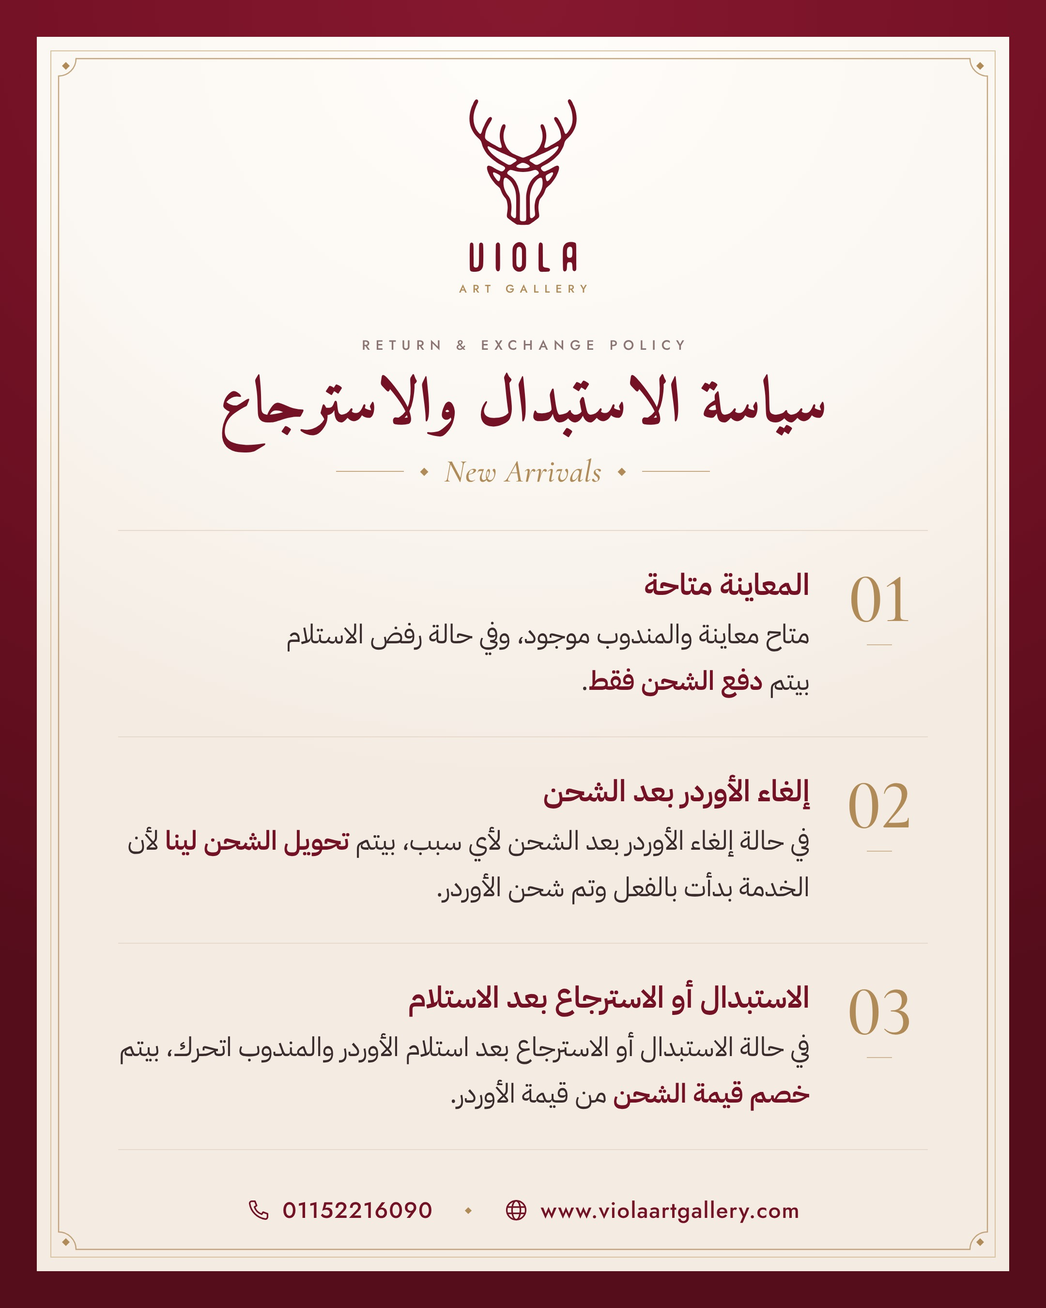
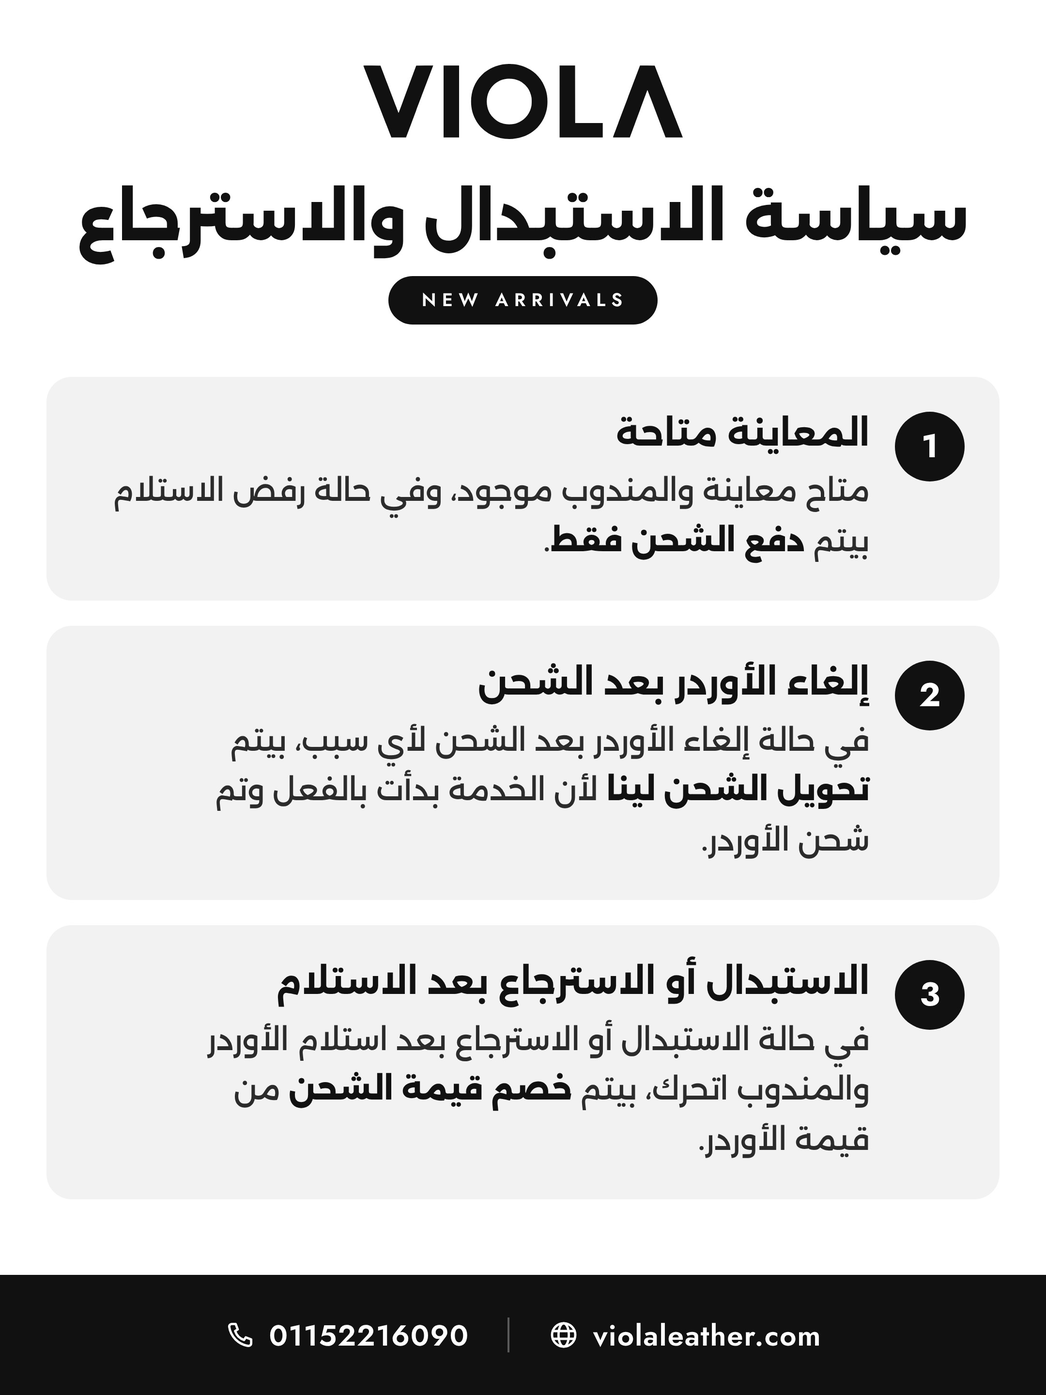
Rework return policy card to Viola monochrome brand
Swap in the VIOLA wordmark (traced to SVG), switch to the black,
white and gray palette, enlarge and embolden all text for WhatsApp
readability, and correct the website to violaleather.com.

Claude-Session: https://claude.ai/code/session_01HaZD6coQsiZN9FtMpUNapE

diff --git a/design/return-policy/return-policy.html b/design/return-policy/return-policy.html
@@ -5,188 +5,145 @@
 <title>Viola Return Policy</title>
 <link rel="preconnect" href="https://fonts.googleapis.com">
 <link rel="preconnect" href="https://fonts.gstatic.com" crossorigin>
-<link href="https://fonts.googleapis.com/css2?family=Amiri:wght@700&family=IBM+Plex+Sans+Arabic:wght@400;500;600&family=Cormorant+Garamond:ital,wght@0,500;0,600;1,500&family=Jost:wght@400;500&display=swap" rel="stylesheet">
+<link href="https://fonts.googleapis.com/css2?family=Alexandria:wght@500;700;800&family=Jost:wght@500;600;700&display=swap" rel="stylesheet">
 <style>
   :root {
-    --wine: #741125;
-    --wine-deep: #560d1b;
-    --paper: #fbf7f2;
-    --paper-2: #f4ece3;
-    --gold: #b08a57;
-    --gold-soft: #d8c2a0;
-    --ink: #3a2b2d;
-    --muted: #8b7471;
-    --line: #e7dacd;
+    --black: #111111;
+    --ink: #2b2b2b;
+    --gray-1: #f2f2f2;
+    --gray-2: #e2e2e2;
+    --gray-3: #cfcfcf;
+    --gray-4: #8a8a8a;
+    --white: #ffffff;
   }
   * { box-sizing: border-box; margin: 0; padding: 0; }
-  html, body { width: 1080px; height: 1350px; }
+  html, body { width: 1080px; height: 1440px; }
   body {
-    background: var(--wine);
-    font-family: "IBM Plex Sans Arabic", sans-serif;
+    background: var(--white);
+    font-family: "Alexandria", sans-serif;
     color: var(--ink);
     -webkit-font-smoothing: antialiased;
   }
   .poster {
-    position: relative;
-    width: 1080px; height: 1350px;
-    padding: 38px;
-    background:
-      radial-gradient(120% 80% at 50% 0%, #86182e 0%, var(--wine) 45%, var(--wine-deep) 100%);
-  }
-  .card {
-    position: relative;
-    height: 100%;
-    background:
-      radial-gradient(90% 60% at 50% 0%, #fffdfa 0%, var(--paper) 55%, var(--paper-2) 100%);
-    padding: 64px 84px 0;
+    width: 1080px; height: 1440px;
     display: flex; flex-direction: column; align-items: center;
-  }
-  /* gold frame with concave corners */
-  .frame { position: absolute; inset: 0; width: 100%; height: 100%; pointer-events: none; }
-
-  /* ---------- brand lockup ---------- */
-  .brand { display: flex; flex-direction: column; align-items: center; }
-  .brand .deer { width: 112px; height: auto; display: block; }
-  .brand .viola { width: 112px; height: auto; display: block; margin-top: 16px; }
-  .brand .ag {
-    direction: ltr;
-    font-family: "Jost", sans-serif; font-weight: 500;
-    font-size: 11.5px; letter-spacing: .52em; margin-right: -.52em;
-    color: var(--gold); margin-top: 9px;
+    background: var(--white);
   }
 
-  /* ---------- headline ---------- */
-  .kicker {
-    direction: ltr;
-    margin-top: 40px;
-    font-family: "Jost", sans-serif; font-weight: 500;
-    font-size: 14px; letter-spacing: .42em; margin-right: -.42em;
-    color: var(--muted);
-  }
+  /* ---------- header ---------- */
+  .logo { width: 330px; height: auto; display: block; margin-top: 66px; }
   h1 {
-    margin-top: 6px;
-    font-family: "Amiri", serif; font-weight: 700;
-    font-size: 66px; line-height: 1.45;
-    color: var(--wine);
+    margin-top: 40px;
+    font-weight: 800; font-size: 64px; line-height: 1.3;
+    color: var(--black);
     text-align: center;
   }
   .tag {
-    display: flex; align-items: center; gap: 18px;
-    direction: ltr; margin-top: 2px;
-  }
-  .tag .rule { width: 70px; height: 1px; background: var(--gold); opacity: .7; }
-  .tag .dia { width: 6px; height: 6px; background: var(--gold); transform: rotate(45deg); }
-  .tag em {
-    font-family: "Cormorant Garamond", serif; font-style: italic; font-weight: 500;
-    font-size: 33px; color: var(--gold); letter-spacing: .01em;
-    line-height: 1;
+    margin-top: 18px;
+    direction: ltr;
+    display: inline-flex; align-items: center;
+    height: 50px; padding: 0 30px 0 34px;
+    border-radius: 999px;
+    background: var(--black); color: var(--white);
+    font-family: "Jost", sans-serif; font-weight: 600;
+    font-size: 19px; letter-spacing: .32em;
   }
 
   /* ---------- policy items ---------- */
   .items {
     list-style: none;
     width: 100%;
-    margin-top: 44px;
-    border-top: 1px solid var(--line);
+    padding: 0 48px;
+    margin-top: 54px;
+    display: flex; flex-direction: column; gap: 26px;
   }
   .items li {
     display: grid;
-    grid-template-columns: 92px 1fr;
-    align-items: start;
+    grid-template-columns: 72px 1fr;
     column-gap: 26px;
-    padding: 34px 4px 34px 0;
-    border-bottom: 1px solid var(--line);
+    align-items: start;
+    background: var(--gray-1);
+    border-radius: 26px;
+    padding: 34px 36px 36px 34px;
   }
   .num {
-    direction: ltr;
-    font-family: "Cormorant Garamond", serif; font-weight: 500;
-    font-size: 72px; line-height: .9;
-    font-variant-numeric: lining-nums;
-    color: var(--gold);
-    text-align: center;
-    padding-top: 4px;
-    position: relative;
-  }
-  .num::after {
-    content: ""; display: block; width: 26px; height: 1px;
-    background: var(--gold); opacity: .55; margin: 14px auto 0;
+    width: 72px; height: 72px; border-radius: 50%;
+    background: var(--black); color: var(--white);
+    display: grid; place-items: center;
+    font-family: "Jost", sans-serif; font-weight: 700; font-size: 34px;
+    line-height: 1;
+    margin-top: 2px;
   }
   .items h2 {
-    font-weight: 600; font-size: 31px; line-height: 1.4;
-    color: var(--wine);
+    font-weight: 700; font-size: 36px; line-height: 1.35;
+    color: var(--black);
   }
   .items p {
-    margin-top: 6px;
-    font-weight: 400; font-size: 27.5px; line-height: 1.72;
+    margin-top: 10px;
+    font-weight: 500; font-size: 31px; line-height: 1.66;
     color: var(--ink);
     text-wrap: pretty;
   }
-  .items p b { font-weight: 600; color: var(--wine); white-space: nowrap; }
+  .items p b {
+    font-weight: 800; color: var(--black);
+    white-space: nowrap;
+  }
 
   /* ---------- footer ---------- */
   .foot {
     margin-top: auto;
-    width: calc(100% + 168px);
-    padding: 30px 0 46px;
-    display: flex; justify-content: center; align-items: center; gap: 34px;
+    width: 100%;
+    height: 124px;
+    background: var(--black); color: var(--white);
+    display: flex; justify-content: center; align-items: center; gap: 40px;
     direction: ltr;
-    color: var(--wine);
-    font-family: "Jost", sans-serif; font-weight: 500; font-size: 23px; letter-spacing: .04em;
+    font-family: "Jost", sans-serif; font-weight: 600; font-size: 30px; letter-spacing: .03em;
   }
-  .foot .it { display: flex; align-items: center; gap: 12px; }
-  .foot svg { width: 26px; height: 26px; display: block; }
-  .foot .sep { width: 5px; height: 5px; background: var(--gold); transform: rotate(45deg); }
+  .foot .it { display: flex; align-items: center; gap: 14px; }
+  .foot svg { width: 32px; height: 32px; display: block; }
+  .foot .sep { width: 2px; height: 36px; background: #5a5a5a; }
 </style>
 </head>
 <body>
 <div class="poster">
-  <div class="card">
-    <svg class="frame" viewBox="0 0 1004 1274" aria-hidden="true"><rect x="14.5" y="14.5" width="975" height="1245" fill="none" stroke="#d8c2a0" stroke-width="1"/><path d="M40.5 22.5H963.5A18 18 0 0 0 981.5 40.5V1233.5A18 18 0 0 0 963.5 1251.5H40.5A18 18 0 0 0 22.5 1233.5V40.5A18 18 0 0 0 40.5 22.5Z" fill="none" stroke="#b08a57" stroke-opacity=".75" stroke-width="1.2"/><g fill="#b08a57"><path d="M30 26L34 30L30 34L26 30Z"/><path d="M974 26L978 30L974 34L970 30Z"/><path d="M30 1240L34 1244L30 1248L26 1244Z"/><path d="M974 1240L978 1244L974 1248L970 1244Z"/></g></svg>
+  <svg class="logo" viewBox="0 0 2000 470" aria-label="VIOLA"><path fill="#111111" fill-rule="evenodd" d="M 896 1.0 C 837.4 4.7,781.1 29.7,741.5 69.5 C 698.1 113.0,675 170.6,675 235 C 675 281.3,686.2 321.8,709.7 360.4 C 765.7 452.3,887.4 493.0,996.8 456.4 C 1055.9 436.7,1102.0 396.6,1129.0 341.5 C 1145.6 307.6,1153.2 274.2,1153.1 235 C 1153.1 207.0,1149.5 183.3,1141.5 159.3 C 1121.0 97.7,1081.0 51.8,1024.5 24.9 C 994.3 10.5,965.6 3.2,931.1 1.0 C 914.2 -0.0,913.2 -0.0,896 1.0 M 1 10.8 C 1 11.6,12.0 40.0,29.4 84.5 C 31.8 90.5,35.3 99.5,37.3 104.5 C 39.2 109.4,42.8 118.6,45.3 125 C 47.7 131.3,55.5 151.1,62.5 169 C 69.4 186.8,77.2 206.6,79.6 213 C 82.1 219.3,85.7 228.5,87.6 233.5 C 89.6 238.4,103.2 273.3,118.0 311 C 132.7 348.6,146.4 383.7,148.5 389 C 154.0 403.3,164.4 429.7,170.6 445.7 L 176.2 460.0 222.2 459.7 L 268.2 459.5 273.2 446.5 C 275.9 439.3,301.7 371.1,330.4 295 C 379.8 164.2,436.0 15.6,437.5 11.7 L 438.2 9.9 384.9 10.2 L 331.7 10.5 319.8 42.5 C 313.3 60.1,303.2 87.1,297.5 102.5 C 284.0 138.9,268.4 180.8,246.0 241.5 C 236.0 268.4,226.4 294.2,224.7 298.8 C 222.6 304.6,221.4 306.7,220.8 305.7 C 220.4 304.8,213.4 286.9,205.4 265.8 C 190.7 227.3,176.7 190.6,149.4 119 C 141.3 97.8,128.7 64.7,121.4 45.5 L 108.1 10.5 54.5 10.2 C 23.3 10.0,1 10.3,1 10.8 M 503 235 L 503 460 551.5 460 L 600 460 600 235 L 600 10 551.5 10 L 503 10 503 235 M 1229 235 L 1229 460 1364 460 L 1499 460 1499 415.0 L 1499 370.0 1412.7 369.7 L 1326.5 369.5 1326.2 189.7 L 1325.9 10 1277.4 10 L 1229 10 1229 235 M 1722.7 35.2 C 1717.4 49.1,1687.0 129.5,1655.1 214 C 1623.3 298.4,1589.5 387.8,1580.1 412.7 C 1570.6 437.5,1563 458.3,1563 458.9 C 1563 459.6,1580.1 460,1615.9 460 L 1668.8 460 1669.5 457.7 C 1669.9 456.5,1676.0 439.7,1683.2 420.5 C 1695.0 388.6,1701.8 370.2,1732 289 C 1748.4 244.7,1777.6 165.5,1778.2 164 C 1778.8 162.0,1779.0 162.5,1797.6 211.3 C 1813.4 252.8,1831.4 300.1,1858.4 371 C 1866.5 392.1,1877.4 420.8,1882.7 434.7 L 1892.3 460 1946.1 460 L 1999.9 460 1997.5 453.7 C 1994.6 446.2,1990.0 434.5,1973.9 393.5 C 1967.3 376.4,1957.9 352.6,1953.2 340.5 C 1948.5 328.4,1942.4 312.8,1939.7 306 C 1937.0 299.1,1932.6 287.8,1929.9 281 C 1927.3 274.1,1919.6 254.5,1912.9 237.5 C 1902.0 209.5,1892.6 185.5,1879.0 150.5 C 1872.4 133.6,1854.5 87.8,1838.1 46 L 1824.2 10.5 1778.2 10.2 L 1732.2 9.9 1722.7 35.2 M 897.0 93.2 C 850.4 98.3,809.5 127.1,788.0 169.8 C 768.3 209.0,768.5 261.6,788.5 301.3 C 795.5 315.1,802.4 324.4,814.9 337.0 C 842.5 364.7,874.8 378.0,914.3 377.9 C 938.5 377.9,957.6 373.7,977.5 364.0 C 1016.5 344.9,1044.5 307.6,1052.6 264 C 1054.8 252.0,1055.1 220.1,1053.1 209 C 1049.2 186.7,1039.6 164.0,1027.5 147.9 C 1014.7 130.9,994.4 114.0,976.5 105.5 C 953.2 94.5,924.9 90.1,897.0 93.2"/></svg>
 
-    <div class="brand">
-      <svg class="deer" viewBox="145 115 1285 1500" aria-label="Viola"><path fill="#741125" fill-rule="evenodd" d="M 229.5 123.8 C 220.0 128.1,207.2 147.9,195.7 176 C 193.7 180.6,189.9 189.0,187.1 194.5 C 176.9 215.0,166.8 247.1,160.1 280.5 C 136.7 397.5,171.3 502.1,260.2 582.7 C 285.9 606.0,293.9 619.9,301.9 654.5 C 306.9 676.1,327.0 718.1,343.4 741.5 C 345.7 744.8,350.5 751.7,354.0 756.9 C 366.9 776.0,414.4 822.4,439.3 840.1 C 444.9 844.1,455.6 852.0,463.2 857.7 C 487.5 875.9,505.2 886.5,548.5 908.8 C 578.5 924.3,583.0 935.7,566.6 954.9 C 551.9 972.2,539.0 977.3,523.9 972.1 C 505.8 965.8,470.4 948.8,449.8 936.4 C 397.7 905.2,377.8 899.9,365.7 913.9 C 355.3 926.1,361.9 961.9,382.5 1005.2 C 387.7 1016.1,392 1025.2,392 1025.5 C 392 1029.4,419.6 1073.1,430.8 1086.9 C 435.0 1092.0,441.2 1099.7,444.5 1103.9 C 456.8 1119.8,474.3 1137.0,499.6 1158.5 C 514.0 1170.6,518.2 1177.6,527.6 1205.3 C 537.3 1233.9,554.5 1263.6,575 1287.2 C 589.6 1304.1,594.6 1315.6,599.9 1344.9 C 608.0 1389.6,608.0 1412.2,599.9 1464 C 592.1 1514.0,594.4 1520.2,629.7 1544.2 C 634.7 1547.6,642.7 1553.5,647.3 1557.2 C 651.9 1560.9,662.6 1568.8,671.1 1574.8 C 679.5 1580.7,690.1 1588.2,694.5 1591.4 C 716.4 1607.3,720.8 1608.0,788 1608.0 C 855.1 1608.0,859.5 1607.3,881.5 1591.4 C 885.9 1588.2,896.4 1580.7,904.8 1574.8 C 913.3 1568.8,924.0 1560.9,928.6 1557.2 C 933.2 1553.5,941.2 1547.6,946.2 1544.2 C 981.5 1520.2,983.8 1514.0,976.0 1464 C 967.9 1412.2,967.9 1389.6,976.0 1344.9 C 981.3 1315.6,986.3 1304.1,1001 1287.2 C 1021.4 1263.6,1038.6 1233.9,1048.3 1205.3 C 1057.7 1177.6,1061.9 1170.6,1076.3 1158.5 C 1101.6 1137.0,1119.1 1119.8,1131.5 1103.9 C 1134.8 1099.7,1140.9 1092.0,1145.1 1086.9 C 1156.3 1073.1,1184 1029.4,1184 1025.5 C 1184 1025.2,1188.2 1016.1,1193.4 1005.2 C 1214.0 961.9,1220.6 926.1,1210.2 913.9 C 1198.1 899.9,1178.2 905.2,1126.1 936.4 C 1105.5 948.8,1070.1 965.8,1052.0 972.1 C 1036.9 977.3,1024.1 972.2,1009.3 954.9 C 992.9 935.7,997.4 924.3,1027.4 908.8 C 1070.7 886.5,1088.4 875.9,1112.7 857.7 C 1120.3 852.0,1131.0 844.1,1136.6 840.1 C 1161.5 822.4,1209.0 776.0,1221.9 756.9 C 1225.4 751.7,1230.2 744.8,1232.5 741.5 C 1248.9 718.1,1269.0 676.1,1274.0 654.5 C 1282.0 619.9,1290.0 606.0,1315.7 582.7 C 1404.6 502.1,1439.2 397.5,1415.8 280.5 C 1409.1 247.1,1399.0 215.0,1388.8 194.5 C 1386.0 189.0,1382.2 180.6,1380.2 176 C 1360.8 128.8,1341.8 111.6,1325.6 126.8 C 1315.3 136.3,1316.5 147.2,1331.1 176.3 C 1356.7 227.5,1368.1 265.3,1372.9 315.5 C 1380.0 389.5,1366.6 443.0,1327.1 498.6 C 1296.0 542.3,1287.0 541.4,1272.4 492.9 C 1266.0 471.6,1261.9 460.8,1255.4 447.9 C 1252.8 442.7,1248.5 433.3,1245.7 427 C 1232.8 396.6,1207.6 353.9,1195.5 341.5 C 1182.0 327.8,1170.2 326.0,1161.1 336.4 C 1152.4 346.3,1154.3 355.4,1170.6 382.6 C 1218.8 463.2,1228.5 486.5,1236.4 541.1 C 1242.3 581.9,1237.0 593.4,1202.1 615.9 C 1167.4 638.4,1155.4 645.8,1144 651.9 C 1137.1 655.6,1120.2 664.9,1106.5 672.5 C 1067.9 693.8,1064.1 695.5,1054.8 695.5 C 1037.7 695.5,1036.5 688.8,1047.5 651.9 C 1068.1 582.3,1069.1 533.9,1051.3 472 C 1038.3 426.7,1024.2 409.8,1006.4 417.8 C 992.5 424.2,991.7 440.5,1004.0 472 C 1022.7 519.8,1024.5 581.8,1008.5 627.6 C 993.2 671.5,982.7 692.0,964.0 714.5 C 935.2 748.9,914.4 763.8,872.5 780.0 C 866.4 782.3,847.8 790.1,831.0 797.2 C 786.2 816.3,789.7 816.3,744.9 797.2 C 728.1 790.1,709.5 782.3,703.5 780.0 C 661.5 763.8,640.7 748.9,611.9 714.5 C 593.2 692.0,582.7 671.5,567.4 627.6 C 551.4 581.8,553.2 519.8,571.9 472 C 584.2 440.5,583.4 424.2,569.5 417.8 C 551.7 409.8,537.6 426.7,524.6 472 C 506.8 533.9,507.8 582.3,528.4 651.9 C 539.4 688.8,538.2 695.5,521.1 695.5 C 511.8 695.5,508.0 693.8,469.5 672.5 C 455.7 664.9,438.8 655.6,432 651.9 C 420.5 645.8,408.5 638.4,373.8 615.9 C 338.9 593.4,333.6 581.9,339.5 541.1 C 347.4 486.5,357.1 463.2,405.3 382.6 C 421.6 355.4,423.5 346.3,414.8 336.4 C 405.7 326.0,393.9 327.8,380.5 341.5 C 368.3 353.9,343.1 396.6,330.2 427 C 327.4 433.3,323.1 442.7,320.5 447.9 C 314.0 460.8,309.9 471.6,303.5 492.9 C 291.1 534.0,283.1 539.3,264.2 518.5 C 187.4 434.4,180.1 305.4,244.8 176.3 C 254.3 157.3,257.0 149.9,256.9 142.7 C 256.9 127.2,243.0 117.7,229.5 123.8 M 370.7 678.9 C 357.3 689.5,392.0 742.1,439 782.4 C 483.0 820.2,516.4 842.4,590.4 883.2 C 623.6 901.5,633.9 901.1,665.5 880.2 C 672.1 875.9,682.9 869.1,689.5 865.2 C 704.3 856.5,706.5 854.7,709.0 849.9 C 715.4 837.4,708.1 829.5,679.5 817.9 C 672.3 815.0,663.8 811.3,660.5 809.7 C 657.2 808.0,649.1 804.5,642.5 801.9 C 635.9 799.3,621.7 793.0,611.0 787.9 C 600.3 782.9,578.9 773.4,563.5 766.7 C 528.6 751.8,498.1 737.3,473.5 724.1 C 463.0 718.5,444.8 709.1,433 703.3 C 421.1 697.4,406.3 689.8,400.0 686.2 C 382.8 676.5,376.0 674.8,370.7 678.9 M 1190.9 678.4 C 1189.0 679.1,1182.2 682.6,1175.9 686.2 C 1169.6 689.8,1154.8 697.4,1143 703.3 C 1131.1 709.1,1112.9 718.5,1102.5 724.1 C 1077.8 737.3,1047.3 751.8,1012.4 766.7 C 997.0 773.4,975.6 782.9,964.9 787.9 C 954.2 793.0,940.1 799.3,933.5 801.9 C 926.9 804.5,918.8 808.0,915.5 809.7 C 912.2 811.3,903.6 815.0,896.5 817.9 C 867.8 829.5,860.5 837.4,866.9 849.9 C 869.4 854.7,871.6 856.5,886.5 865.2 C 893.1 869.1,903.9 875.9,910.5 880.2 C 942.0 901.1,952.3 901.5,985.5 883.2 C 1059.5 842.4,1092.9 820.2,1137 782.4 C 1176.9 748.1,1211.6 700.2,1208.3 683.9 C 1207.0 677.6,1199.4 675.3,1190.9 678.4 M 773.2 874.4 C 758.1 878.7,728.5 894.4,717 904.3 C 700.1 918.8,709.4 928.6,746 935.1 C 751.2 936.1,763.6 936.5,788 936.5 C 812.3 936.5,824.7 936.1,830 935.1 C 879.9 926.2,879.5 911.5,828.6 885.5 C 805.1 873.5,788.4 870.2,773.2 874.4 M 631.6 958.4 C 622.2 962.0,606.1 976.1,602.8 983.7 C 596.5 997.9,600.8 1004.5,628.5 1023.0 C 651.1 1038.1,667.9 1052.9,680.3 1068.6 C 684.8 1074.4,690.8 1082.1,693.7 1085.7 C 699.4 1092.9,717.7 1128.3,724.2 1144.7 C 731.2 1162.1,741.5 1202.4,747.4 1235.1 C 751.7 1258.8,752.0 1274.0,750.6 1435.5 C 749.6 1553.1,749.4 1551.3,759.0 1559.3 C 767.9 1566.8,808.0 1566.8,816.9 1559.3 C 826.5 1551.3,826.3 1553.1,825.3 1435.5 C 823.9 1274.0,824.2 1258.8,828.5 1235.1 C 834.4 1202.4,844.7 1162.1,851.7 1144.7 C 858.2 1128.3,876.5 1092.9,882.2 1085.7 C 885.1 1082.1,891.1 1074.4,895.6 1068.6 C 908.0 1052.9,924.8 1038.1,947.4 1023.0 C 971.7 1006.7,975.1 1003.0,975.1 992.7 C 975.0 983.4,968.6 974.5,954.5 964.5 C 941.2 955.0,930.8 954.5,905.5 962.4 C 826.6 986.8,749.1 986.8,670.5 962.4 C 653.2 957.0,639.0 955.6,631.6 958.4 M 437 986.2 C 423.9 992.8,436.5 1023.2,469.7 1065.2 C 496.9 1099.6,507.8 1099.0,516.1 1062.5 C 523.7 1029.2,520.2 1021.4,491.7 1007.1 C 483.9 1003.2,472.7 997.5,467 994.4 C 451.1 986.1,442.1 983.6,437 986.2 M 1125.5 986.9 C 1122.2 988.0,1114.7 991.4,1109 994.4 C 1103.2 997.5,1092.1 1003.2,1084.2 1007.1 C 1055.7 1021.4,1052.2 1029.2,1059.8 1062.5 C 1066.3 1090.7,1074.2 1096.3,1090.1 1083.8 C 1100.4 1075.7,1129.2 1034.8,1139.6 1013.6 C 1149.9 992.4,1143.8 980.9,1125.5 986.9 M 571.3 1050.9 C 563.4 1055.7,560.0 1064.3,557.4 1085.5 C 550.0 1146.5,569.7 1210.7,611.8 1262.9 C 625.8 1280.4,638.7 1306.3,642.4 1324.7 C 652.7 1375.7,653.6 1397.1,647.7 1450.5 C 643.3 1490.4,644.4 1497.5,656.4 1508.7 C 680.1 1530.9,693.8 1534.5,701.6 1520.5 C 705.2 1514.0,705.8 1507.0,706.1 1466.5 C 706.2 1445.0,706.7 1395.9,707.2 1357.4 C 708.9 1232.3,701.2 1190.9,664.0 1126 C 651.3 1103.7,646.7 1097.7,630.7 1081.8 C 602.6 1053.9,583.1 1043.7,571.3 1050.9 M 981.4 1053.3 C 930.5 1078.2,884.1 1158.1,872.0 1242 C 868.1 1268.7,867.7 1283.2,868.7 1357.4 C 869.2 1395.9,869.7 1445.0,869.8 1466.5 C 870.1 1507.0,870.7 1514.0,874.3 1520.5 C 882.1 1534.5,895.8 1530.9,919.5 1508.7 C 931.5 1497.5,932.6 1490.4,928.2 1450.5 C 922.3 1397.1,923.2 1375.7,933.5 1324.7 C 937.2 1306.3,950.1 1280.4,964.1 1262.9 C 1006.2 1210.7,1025.9 1146.5,1018.5 1085.5 C 1014.3 1050.8,1004.3 1042.1,981.4 1053.3"/></svg>
-      <svg class="viola" viewBox="1400 1165 945 275" aria-hidden="true"><path fill="#741125" fill-rule="evenodd" d="M 2274.5 1172.6 C 2244.3 1176.7,2223.6 1199.8,2220.9 1232.8 C 2218.3 1263.3,2220.2 1412.0,2223.3 1418.3 C 2229.1 1430.1,2239.1 1431.1,2248.4 1420.9 C 2253.6 1415.1,2254.9 1409.2,2255.5 1388.5 C 2256.5 1353.3,2259.5 1347.9,2278.1 1348.0 C 2297.9 1348.0,2301.5 1353.6,2303.1 1386 C 2303.6 1397.2,2304.3 1408.3,2304.6 1410.6 C 2306.1 1423.5,2321.0 1430.4,2329.9 1422.4 C 2336.8 1416.1,2337.5 1412.5,2337.2 1383 C 2337.0 1368.9,2336.8 1320.3,2336.7 1275 C 2336.4 1181.8,2336.8 1185.0,2326.6 1178.1 C 2318.6 1172.5,2294.3 1170.0,2274.5 1172.6 M 1825.8 1175.3 C 1800.8 1184.1,1785.1 1204.1,1782.0 1230.7 C 1780.2 1246.2,1781.3 1376.2,1783.3 1383.2 C 1801.9 1449.0,1886.5 1444.2,1898.2 1376.7 C 1900.0 1366.5,1900.0 1239.5,1898.2 1229.4 C 1891.5 1190.5,1856.6 1164.5,1825.8 1175.3 M 2020.0 1177.2 C 2008.1 1183.3,2007.9 1185.4,2008.1 1317.4 C 2008.2 1416.2,2007.9 1411.1,2015.0 1421.8 C 2022.0 1432.2,2021.7 1432.2,2059.6 1431.1 C 2098.5 1429.9,2103.9 1428.4,2107.1 1417.9 C 2111.1 1404.6,2100.1 1397.0,2074.2 1395.0 C 2059.6 1393.9,2055.2 1392.4,2050.6 1386.9 C 2045.7 1381.1,2045.7 1381.1,2045.4 1285 C 2045.1 1184.9,2045.3 1189.1,2038.7 1182.1 C 2032.3 1175.5,2026.4 1173.9,2020.0 1177.2 M 1421.7 1176.9 C 1416.8 1178.4,1413.3 1181.8,1410.8 1187.2 C 1407.1 1195.4,1407.1 1407.4,1410.8 1415.6 C 1416.0 1427.2,1421.7 1429.4,1449 1430.4 C 1491.8 1431.9,1514.2 1417.9,1523.6 1383.4 C 1528.2 1366.4,1528.2 1197.1,1523.5 1188 C 1515.0 1171.3,1496.6 1172.5,1490.8 1190.1 C 1490.0 1192.5,1489.5 1217.8,1489.3 1276.7 C 1489.0 1369.7,1488.8 1372.8,1482.6 1383.1 C 1474.3 1397.0,1449.9 1397.9,1443.9 1384.5 C 1442.1 1380.7,1442.0 1376.3,1441.9 1303 C 1441.8 1206.6,1441.3 1191.0,1437.9 1185.0 C 1433.9 1177.9,1428.0 1174.9,1421.7 1176.9 M 1648.2 1177.6 C 1643.5 1179.9,1637.2 1187.2,1636.1 1191.6 C 1635.2 1195.2,1634.4 1274.3,1634.6 1348 C 1634.6 1365.8,1634.6 1385,1634.6 1390.5 C 1634.6 1421.5,1653.9 1438.2,1667.8 1419.0 C 1673.0 1411.8,1672.9 1413.0,1672.7 1299.5 C 1672.5 1193.5,1672.5 1193.5,1670.2 1188.5 C 1665.0 1177.4,1656.9 1173.3,1648.2 1177.6 M 2275 1213.9 C 2259.5 1219.3,2255.4 1229.9,2255.5 1265.5 C 2255.5 1291.8,2256.0 1295.7,2260.2 1302.0 C 2267.1 1312.4,2291.4 1312.0,2298 1301.5 C 2304.3 1291.2,2305.1 1234.0,2299.0 1222.1 C 2294.7 1213.7,2285.0 1210.4,2275 1213.9 M 1833.8 1214.3 C 1817.1 1220.3,1815.3 1228.5,1814.5 1303 C 1813.8 1368.0,1815.0 1378.5,1824.5 1386.8 C 1839.7 1400.1,1859.9 1390.9,1862.9 1369.3 C 1864.2 1359.8,1864.2 1251.6,1862.9 1241.0 C 1860.4 1220.6,1848.0 1209.3,1833.8 1214.3"/></svg>
-      <div class="ag">ART GALLERY</div>
+  <h1>سياسة الاستبدال والاسترجاع</h1>
+  <div class="tag">NEW ARRIVALS</div>
+
+  <ol class="items">
+    <li>
+      <div class="num">1</div>
+      <div>
+        <h2>المعاينة متاحة</h2>
+        <p>متاح معاينة والمندوب موجود، وفي حالة رفض الاستلام بيتم <b>دفع الشحن فقط</b>.</p>
+      </div>
+    </li>
+    <li>
+      <div class="num">2</div>
+      <div>
+        <h2>إلغاء الأوردر بعد الشحن</h2>
+        <p>في حالة إلغاء الأوردر بعد الشحن لأي سبب، بيتم <b>تحويل الشحن لينا</b> لأن الخدمة بدأت بالفعل وتم شحن الأوردر.</p>
+      </div>
+    </li>
+    <li>
+      <div class="num">3</div>
+      <div>
+        <h2>الاستبدال أو الاسترجاع بعد الاستلام</h2>
+        <p>في حالة الاستبدال أو الاسترجاع بعد استلام الأوردر والمندوب اتحرك، بيتم <b>خصم قيمة الشحن</b> من قيمة الأوردر.</p>
+      </div>
+    </li>
+  </ol>
+
+  <div class="foot">
+    <div class="it">
+      <svg viewBox="0 0 24 24" fill="none" stroke="currentColor" stroke-width="1.8" stroke-linecap="round" stroke-linejoin="round"><path d="M5.5 3.5h3l1.6 4.2-2 1.3a11 11 0 0 0 6.9 6.9l1.3-2 4.2 1.6v3a2 2 0 0 1-2.2 2A17.5 17.5 0 0 1 3.5 5.7a2 2 0 0 1 2-2.2z"/></svg>
+      <span>01152216090</span>
     </div>
-
-    <div class="kicker">RETURN &amp; EXCHANGE POLICY</div>
-    <h1>سياسة الاستبدال والاسترجاع</h1>
-    <div class="tag"><span class="rule"></span><span class="dia"></span><em>New Arrivals</em><span class="dia"></span><span class="rule"></span></div>
-
-    <ol class="items">
-      <li>
-        <div class="num">01</div>
-        <div>
-          <h2>المعاينة متاحة</h2>
-          <p>متاح معاينة والمندوب موجود، وفي حالة رفض الاستلام بيتم <b>دفع الشحن فقط</b>.</p>
-        </div>
-      </li>
-      <li>
-        <div class="num">02</div>
-        <div>
-          <h2>إلغاء الأوردر بعد الشحن</h2>
-          <p>في حالة إلغاء الأوردر بعد الشحن لأي سبب، بيتم <b>تحويل الشحن لينا</b> لأن الخدمة بدأت بالفعل وتم شحن الأوردر.</p>
-        </div>
-      </li>
-      <li>
-        <div class="num">03</div>
-        <div>
-          <h2>الاستبدال أو الاسترجاع بعد الاستلام</h2>
-          <p>في حالة الاستبدال أو الاسترجاع بعد استلام الأوردر والمندوب اتحرك، بيتم <b>خصم قيمة الشحن</b> من قيمة الأوردر.</p>
-        </div>
-      </li>
-    </ol>
-
-    <div class="foot">
-      <div class="it">
-        <svg viewBox="0 0 24 24" fill="none" stroke="currentColor" stroke-width="1.5" stroke-linecap="round" stroke-linejoin="round"><path d="M5.5 3.5h3l1.6 4.2-2 1.3a11 11 0 0 0 6.9 6.9l1.3-2 4.2 1.6v3a2 2 0 0 1-2.2 2A17.5 17.5 0 0 1 3.5 5.7a2 2 0 0 1 2-2.2z"/></svg>
-        <span>01152216090</span>
-      </div>
-      <span class="sep"></span>
-      <div class="it">
-        <svg viewBox="0 0 24 24" fill="none" stroke="currentColor" stroke-width="1.5" stroke-linecap="round"><circle cx="12" cy="12" r="9"/><ellipse cx="12" cy="12" rx="4" ry="9"/><path d="M3.5 9h17M3.5 15h17"/></svg>
-        <span>www.violaartgallery.com</span>
-      </div>
+    <span class="sep"></span>
+    <div class="it">
+      <svg viewBox="0 0 24 24" fill="none" stroke="currentColor" stroke-width="1.8" stroke-linecap="round"><circle cx="12" cy="12" r="9"/><ellipse cx="12" cy="12" rx="4" ry="9"/><path d="M3.5 9h17M3.5 15h17"/></svg>
+      <span>violaleather.com</span>
     </div>
   </div>
 </div>
